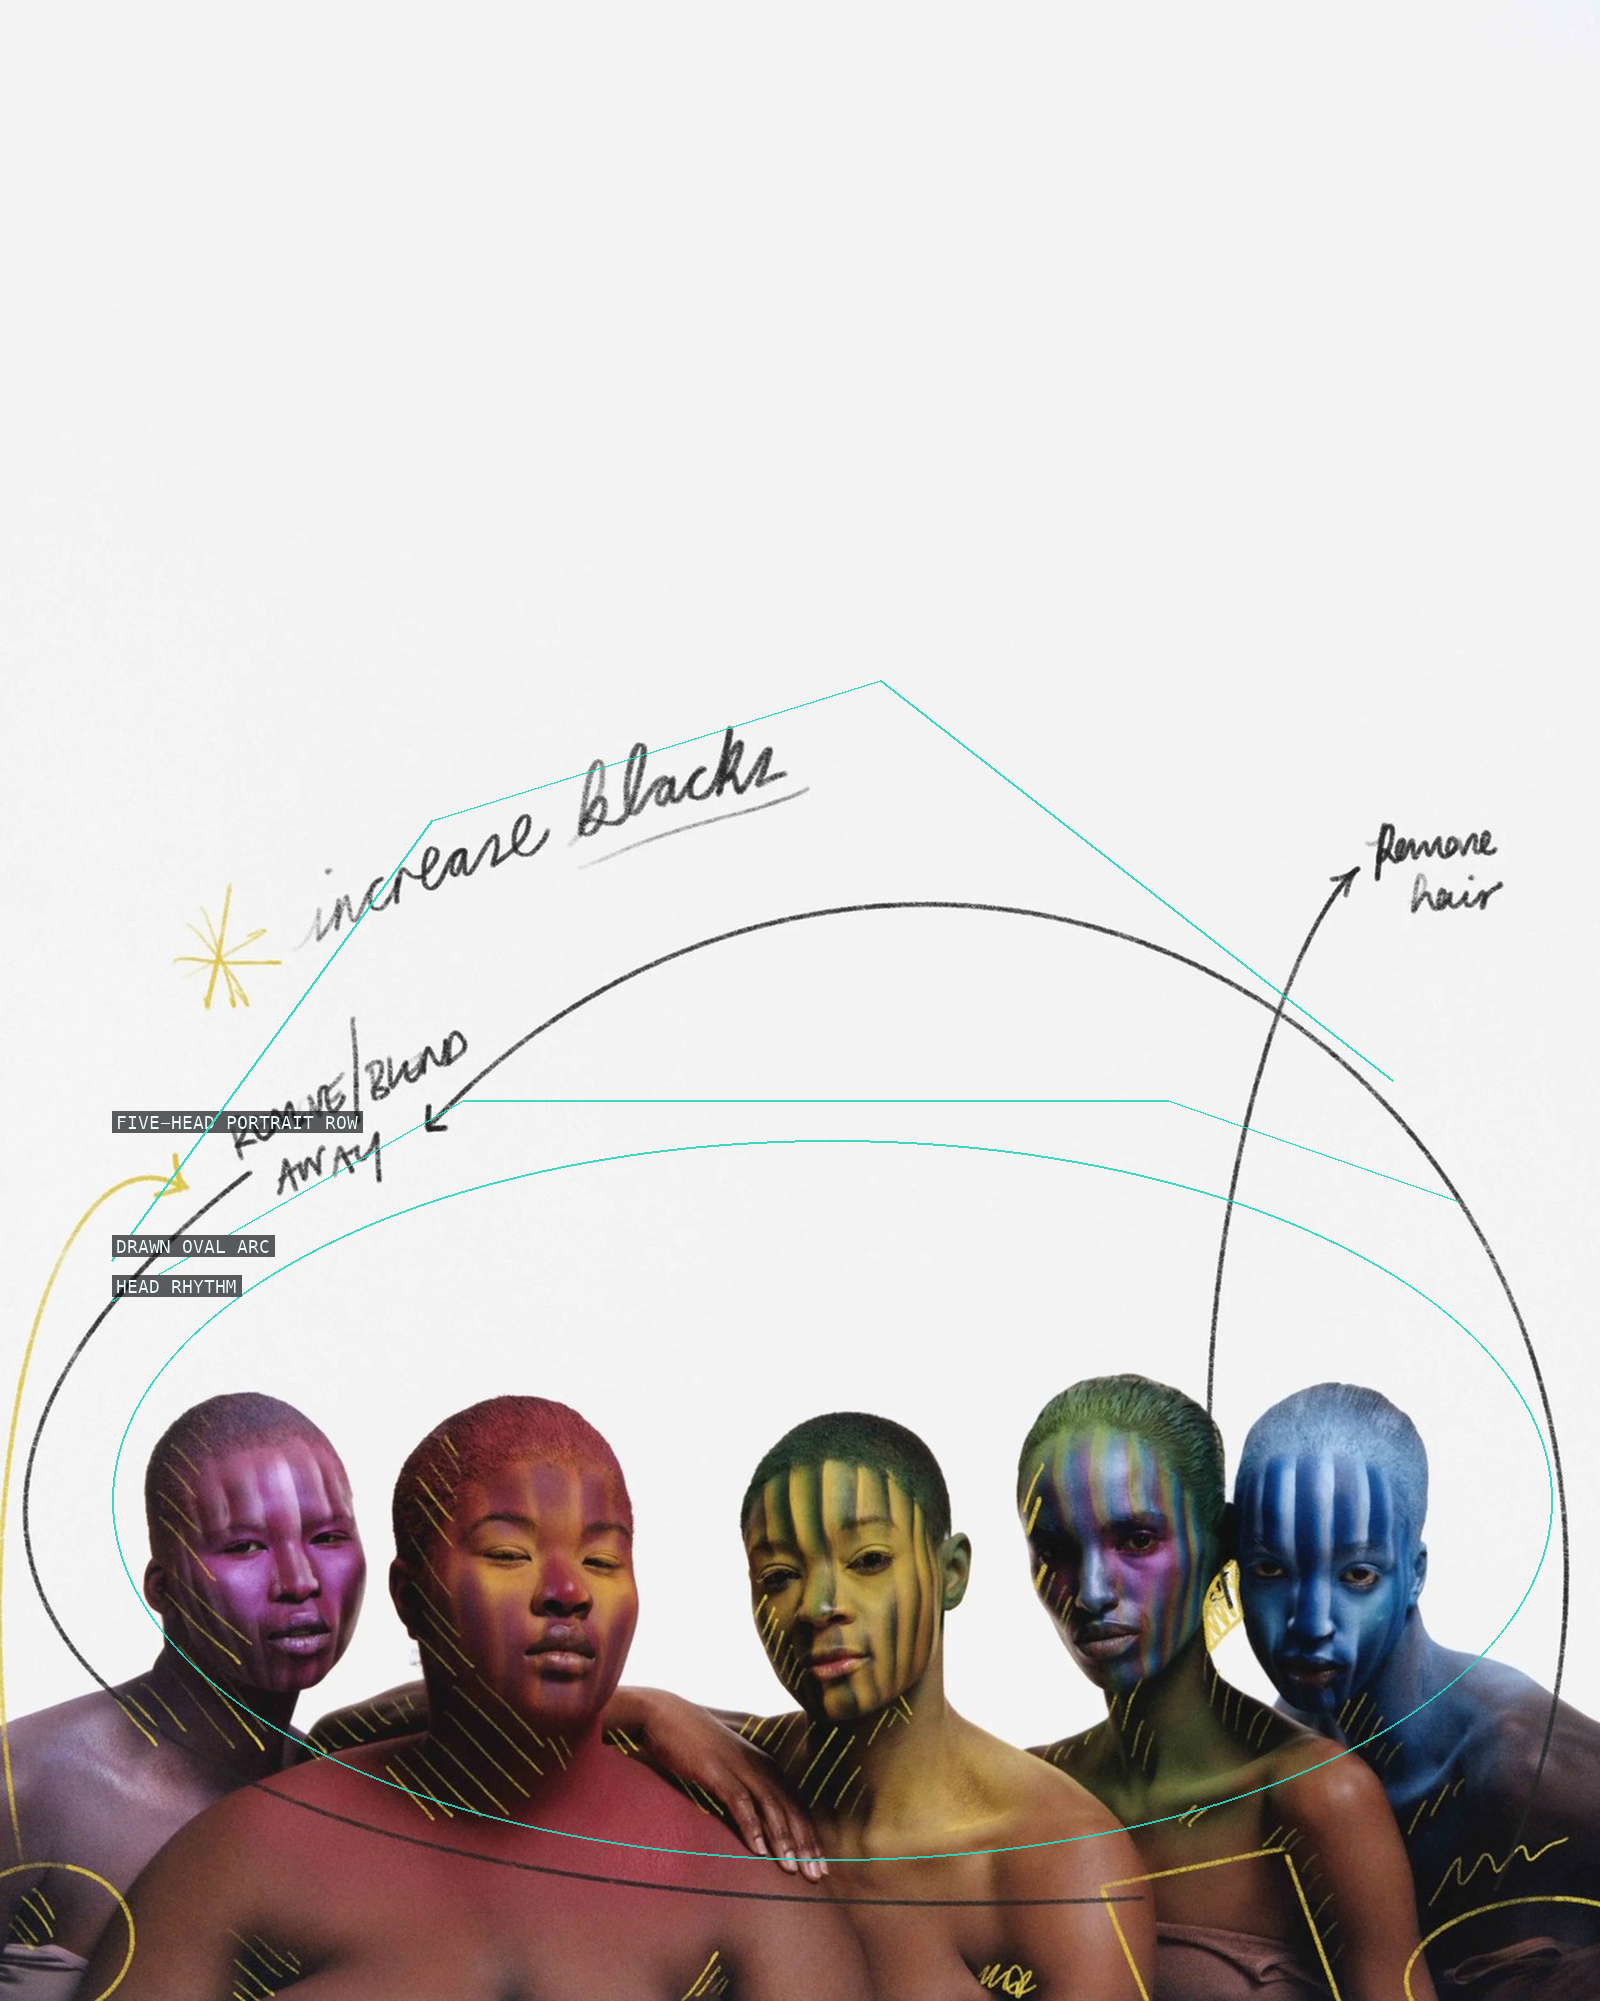
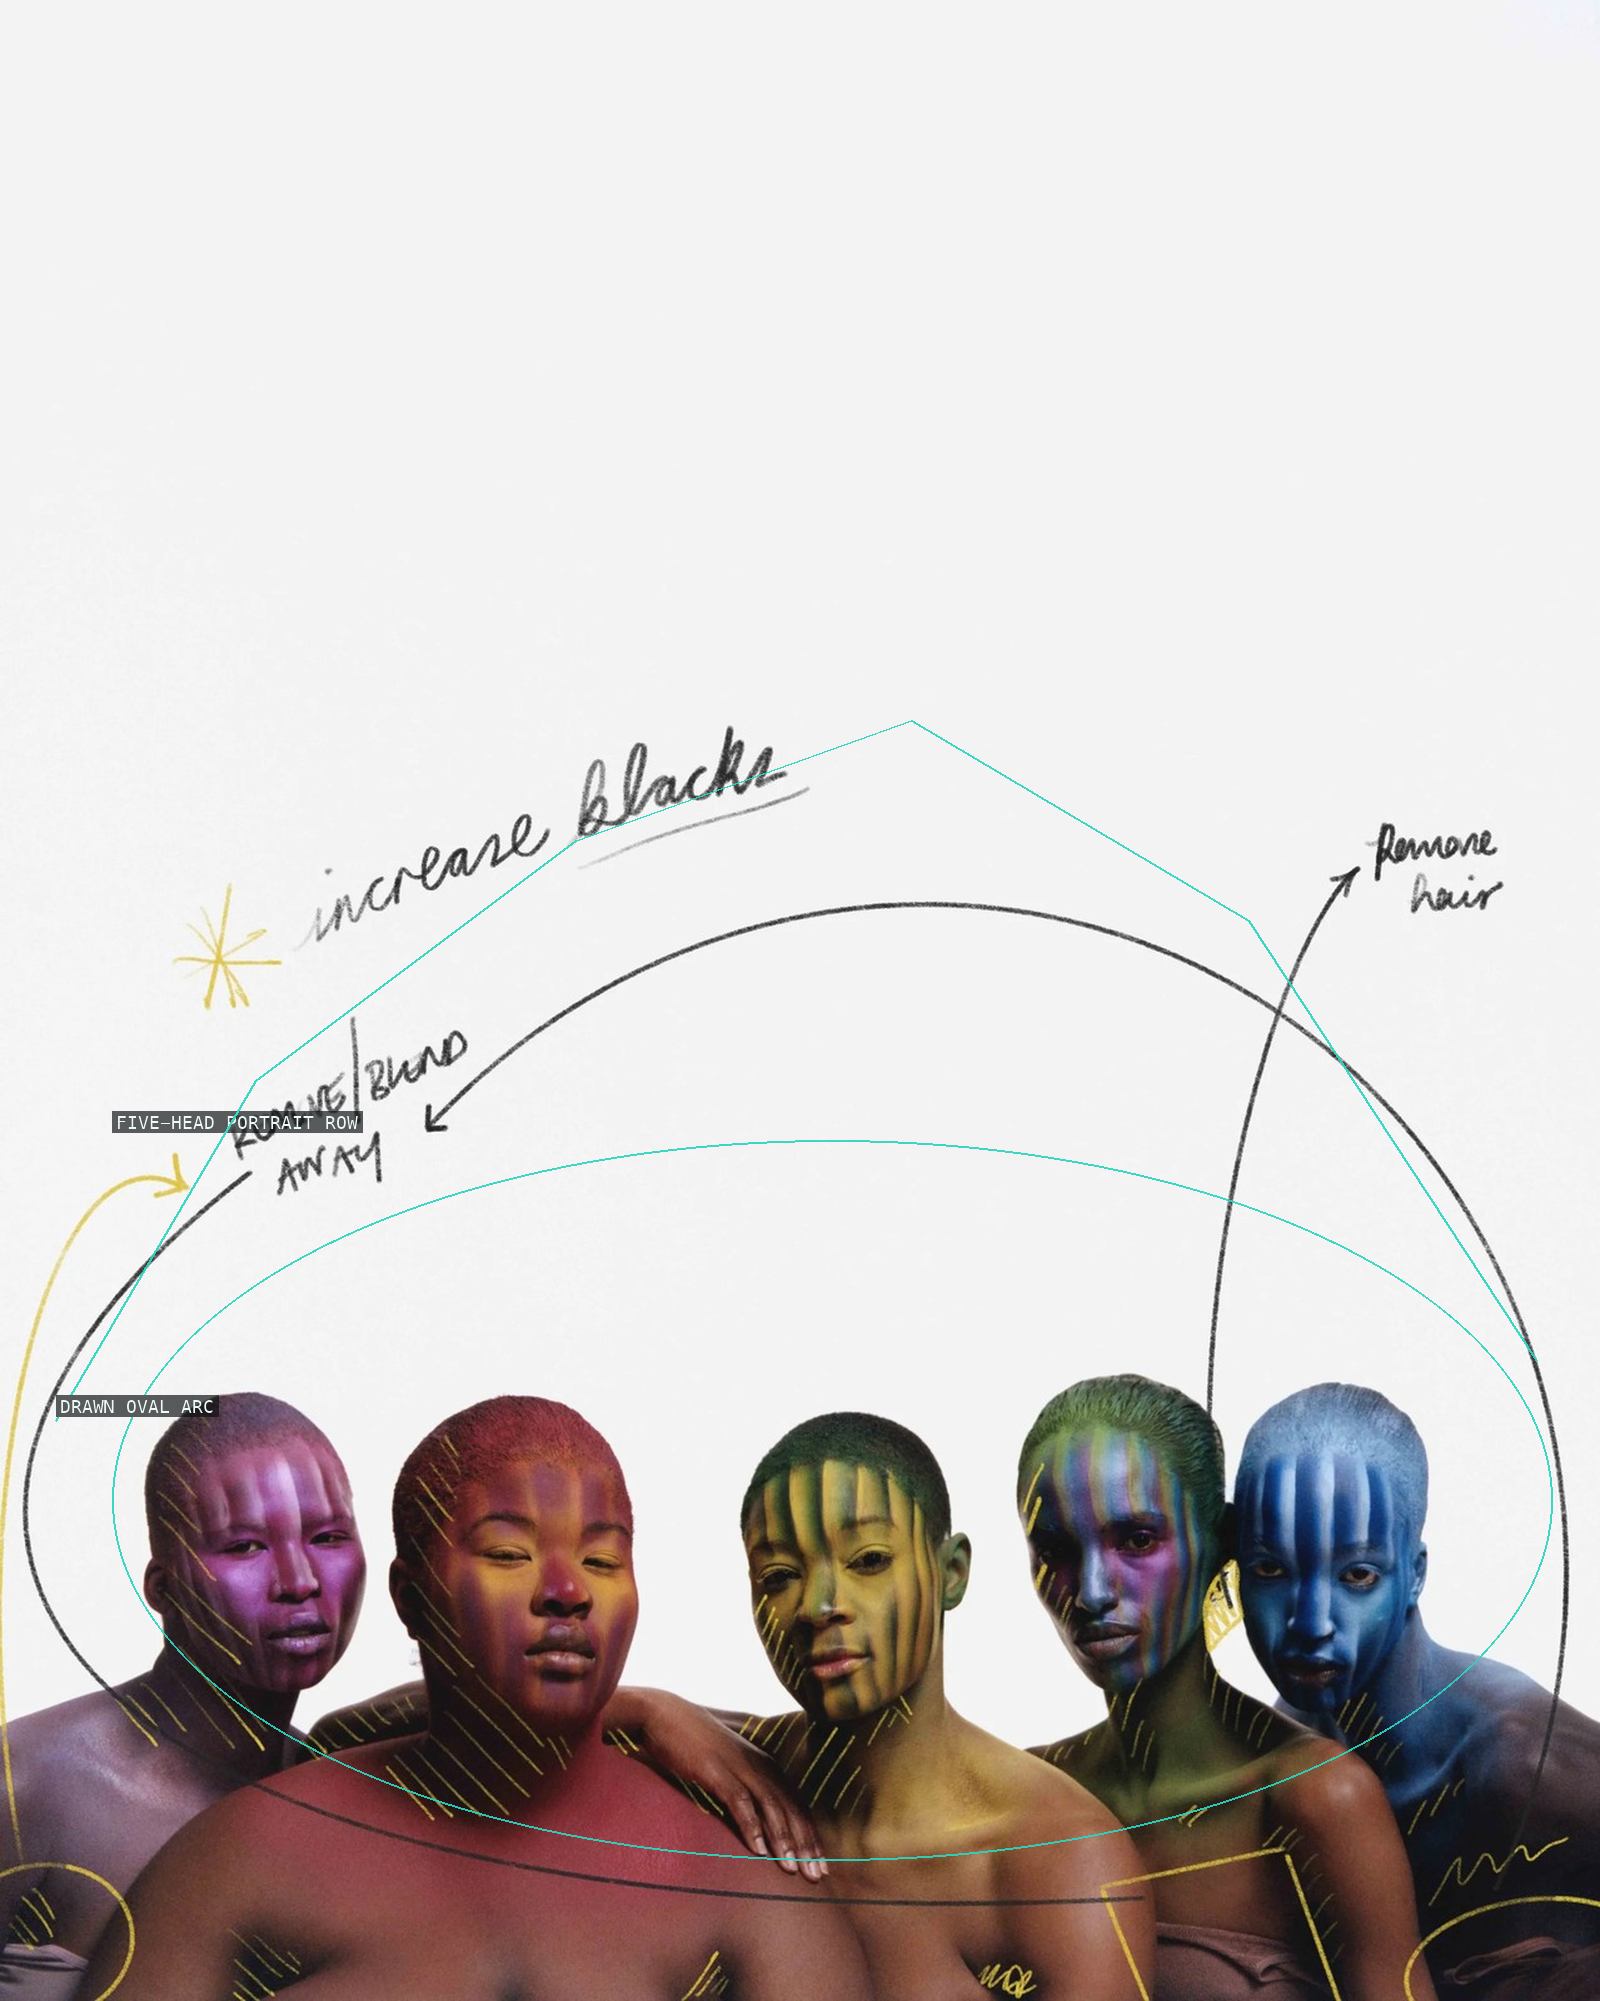
resolve critique: campbell-addy

Changed region(s): [[0.0625, 0.5887, 0.1875, 0.6507], [0.0312, 0.6817, 0.1562, 0.7126]]

diff --git a/content/campbell-addy/sources.md b/content/campbell-addy/sources.md
@@ -7,9 +7,9 @@ This 12-image set is drawn from the high-resolution display files published in A
 ## Shortlist
 
 ### 01 — *Colman Domingo for Time* (2025)
-- **Why it matters:** A long, front-facing portrait uses the clothing silhouette and dark surround to turn the figure into a centered vertical monument.
+- **Why it matters:** A reclining body, lifted legs, and held branch make crossing diagonals across a textured grayscale studio field.
 - **Source:** https://campbelladdy.com/selected-works (artist portfolio; public display file: https://images.squarespace-cdn.com/content/v1/58ea12fbd2b8576a9d65536a/1747840960535-ALWSFLF8X8KECX7M57BJ/250119_CA_Time_ColmanDomingo_S01_0019_v1a.jpg)
-- **Rights / fair-use assessment:** Campbell Addy; © Campbell Addy, with *Time* editorial context indicated by the filename. **Factor 1:** transformative criticism studies centered scale, silhouette, and tonal containment. **Factor 2:** a creative contemporary editorial portrait. **Factor 3:** the intact vertical frame is necessary to judge body, clothing, and surrounding negative space together. **Factor 4:** this credited 2500 × 3342px public portfolio copy links to the artist and does not replace the editorial publication or a licensed file.
+- **Rights / fair-use assessment:** Campbell Addy; © Campbell Addy, with *Time* editorial context indicated by the filename. **Factor 1:** transformative criticism studies the held branch, reclining pose, and tonal containment. **Factor 2:** a creative contemporary editorial portrait. **Factor 3:** the intact frame is necessary to judge body, branch, and surrounding negative space together. **Factor 4:** this credited 2500 × 3342px public portfolio copy links to the artist and does not replace the editorial publication or a licensed file.
 - **File:** `raw/campbell-addy/01-colman-domingo-time-2025.jpg` (2500 × 3342px)
 
 ### 02 — *Lewis Hamilton for GQ* (2023)
@@ -19,9 +19,9 @@ This 12-image set is drawn from the high-resolution display files published in A
 - **File:** `raw/campbell-addy/02-lewis-hamilton-gq-2023.jpg` (2500 × 3125px)
 
 ### 03 — *Vogue Spain, Hand Print* (undated; portfolio display current 2025)
-- **Why it matters:** A large printed hand becomes a graphic counterweight to the model, making touch and surface pattern the picture’s primary compositional event.
+- **Why it matters:** Four figures share a compact blue-backed group; staggered faces, hands, and shoulders lock into an interdependent portrait block.
 - **Source:** https://campbelladdy.com/selected-works (artist portfolio; public display file: https://images.squarespace-cdn.com/content/v1/58ea12fbd2b8576a9d65536a/1744881379138-MDLMPM591A21XTSN2XQM/CA_Vogue_Spain_Hand_Print+%284%29_V2.jpg)
-- **Rights / fair-use assessment:** Campbell Addy; © Campbell Addy, with *Vogue Spain* editorial context indicated by the filename. **Factor 1:** transformative criticism examines visual rhyme between the printed hand, live figure, and patterned surface. **Factor 2:** a creative fashion photograph. **Factor 3:** the complete vertical field is required to preserve the scale relationship. **Factor 4:** this credited 2447 × 3000px public portfolio display copy cannot replace the original commission or a licensed image.
+- **Rights / fair-use assessment:** Campbell Addy; © Campbell Addy, with *Vogue Spain* editorial context indicated by the filename. **Factor 1:** transformative criticism examines group geometry, varied face directions, and joining gestures. **Factor 2:** a creative fashion photograph. **Factor 3:** the complete vertical field is required to preserve the figures’ interlocking arrangement. **Factor 4:** this credited 2447 × 3000px public portfolio display copy cannot replace the original commission or a licensed image.
 - **File:** `raw/campbell-addy/03-vogue-spain-hand-print.jpg` (2447 × 3000px)
 
 ### 04 — *Vanishing Evenings for Vogue US* (2024)
@@ -43,27 +43,27 @@ This 12-image set is drawn from the high-resolution display files published in A
 - **File:** `raw/campbell-addy/06-liya-kebede-vogue-italia-2023.jpg` (1240 × 1550px)
 
 ### 07 — *I ♥ Campbell*, exhibition work 21 (2023)
-- **Why it matters:** The figure’s stylized presence is held against a saturated field, making costume, pose, and lighting operate as a single symbolic arrangement.
+- **Why it matters:** A high-key black-and-white portrait sets a dark frontal torso and asymmetric rising hair silhouette against a nearly white field.
 - **Source:** https://campbelladdy.com/selected-works (artist portfolio; public display file: https://images.squarespace-cdn.com/content/v1/58ea12fbd2b8576a9d65536a/1701168789423-ICFPZ776AG6VIRKVTC71/Campbell_Addy_Solo_Show_21_50%E2%80%9D+x+60.692%E2%80%9D_V1a.jpg; exhibition context: https://campbelladdy.com/s/I-3-Campbell-3.pdf)
-- **Rights / fair-use assessment:** Campbell Addy; © Campbell Addy. **Factor 1:** transformative composition teaching examines symbolic styling, central figure placement, and colored surround. **Factor 2:** a creative contemporary art photograph. **Factor 3:** the full vertical composition is necessary to connect pose, costume, and setting. **Factor 4:** the credited 2500 × 3126px web display copy is non-substitutive of an exhibition work, print, or licensed reproduction.
+- **Rights / fair-use assessment:** Campbell Addy; © Campbell Addy. **Factor 1:** transformative composition teaching examines high-key contrast, frontal placement, and the hair silhouette. **Factor 2:** a creative contemporary art photograph. **Factor 3:** the full vertical composition is necessary to connect torso, hair, and surrounding white field. **Factor 4:** the credited 2500 × 3126px web display copy is non-substitutive of an exhibition work, print, or licensed reproduction.
 - **File:** `raw/campbell-addy/07-i-heart-campbell-21-2023.jpg` (2500 × 3126px)
 
 ### 08 — *Bukayo Saka for Time Next Generation Leaders* (2023)
-- **Why it matters:** The portrait uses the cover’s tall, restrained field to isolate a seated figure and make the gaze a visual anchor rather than merely a likeness.
+- **Why it matters:** The cover crops a standing portrait at the torso, using the face, white jersey, red border, and blue typography as one designed address.
 - **Source:** https://campbelladdy.com/selected-works (artist portfolio; public display file: https://images.squarespace-cdn.com/content/v1/58ea12fbd2b8576a9d65536a/1701186411144-QU8QKLKWXVFKNQ8DW11B/TIME-NGL-Cover-Bukayo-Saka.jpg)
-- **Rights / fair-use assessment:** Campbell Addy; © Campbell Addy, with *Time* cover context indicated by the filename. **Factor 1:** transformative teaching analyzes seated pose, open field, and facial anchoring. **Factor 2:** a creative editorial portrait. **Factor 3:** the whole tall frame is needed to read the relation of seated figure to surrounding space. **Factor 4:** this credited 2363 × 3150px public portfolio copy links to the artist and cannot replace the magazine cover or a licensed image.
+- **Rights / fair-use assessment:** Campbell Addy; © Campbell Addy, with *Time* cover context indicated by the filename. **Factor 1:** transformative teaching analyzes facial anchoring, jersey texture, and cover typography. **Factor 2:** a creative editorial portrait. **Factor 3:** the whole cover frame is needed to read the relation of portrait to the red border and type. **Factor 4:** this credited 2363 × 3150px public portfolio copy links to the artist and cannot replace the magazine cover or a licensed image.
 - **File:** `raw/campbell-addy/08-bukayo-saka-time-2023.jpg` (2363 × 3150px)
 
 ### 09 — *I ♥ Campbell*, hand-print work (2023)
-- **Why it matters:** The panoramic format turns the handprint into a horizontal rhythm, allowing texture and repeated marks to carry as much weight as the figure.
+- **Why it matters:** A dim, lit cluster of bodies gathers at left and center before the panorama releases into a broad black field at right.
 - **Source:** https://campbelladdy.com/selected-works (artist portfolio; public display file: https://images.squarespace-cdn.com/content/v1/58ea12fbd2b8576a9d65536a/1701167838444-3SCSMVMUB29W6V1ZO6A5/CA_180STRAND_HANDPRINT1_v3.jpg; exhibition context: https://campbelladdy.com/s/I-3-Campbell-3.pdf)
-- **Rights / fair-use assessment:** Campbell Addy; © Campbell Addy. **Factor 1:** transformative criticism studies repeated mark-making, horizontal pacing, and figure-surface interaction. **Factor 2:** a creative contemporary art photograph. **Factor 3:** the whole panorama is necessary to see the rhythm of the prints across the frame. **Factor 4:** this credited 2500 × 1250px display file is web-sized and cannot replace an exhibition work, print, or licensed image.
+- **Rights / fair-use assessment:** Campbell Addy; © Campbell Addy. **Factor 1:** transformative criticism studies the clustered bodies, their low horizontal pacing, and the release into dark space. **Factor 2:** a creative contemporary art photograph. **Factor 3:** the whole panorama is necessary to see the relation of the lit cluster to the black field. **Factor 4:** this credited 2500 × 1250px display file is web-sized and cannot replace an exhibition work, print, or licensed image.
 - **File:** `raw/campbell-addy/09-i-heart-campbell-handprint-2023.jpg` (2500 × 1250px)
 
 ### 10 — *I ♥ Campbell*, exhibition work 06 (2023)
-- **Why it matters:** A tall, ceremonially posed figure uses frontal symmetry and tactile surface to make identity legible through both costume and spatial control.
+- **Why it matters:** Five painted faces form a low, uneven portrait row beneath a visible black oval and handwritten editorial marks.
 - **Source:** https://campbelladdy.com/selected-works (artist portfolio; public display file: https://images.squarespace-cdn.com/content/v1/58ea12fbd2b8576a9d65536a/1701168654921-MZPSG8EUTGFB2RQW3CJK/Campbell_Addy_Solo_Show_06_59_+x+71.617__V1a.jpg; exhibition context: https://campbelladdy.com/s/I-3-Campbell-3.pdf)
-- **Rights / fair-use assessment:** Campbell Addy; © Campbell Addy. **Factor 1:** transformative scholarship examines symmetry, surface, and ceremonial pose. **Factor 2:** a creative contemporary art photograph. **Factor 3:** the complete vertical frame is necessary to judge the figure’s symmetry and its surround. **Factor 4:** the credited 2500 × 3126px public portfolio derivative does not replace the exhibition work, print, or licensed reproduction.
+- **Rights / fair-use assessment:** Campbell Addy; © Campbell Addy. **Factor 1:** transformative scholarship examines the portrait row, painted facial patterning, and the drawn oval. **Factor 2:** a creative contemporary art photograph. **Factor 3:** the complete vertical frame is necessary to judge the faces’ relation to the oval and handwritten marks. **Factor 4:** the credited 2500 × 3126px public portfolio derivative does not replace the exhibition work, print, or licensed reproduction.
 - **File:** `raw/campbell-addy/10-i-heart-campbell-06-2023.jpg` (2500 × 3126px)
 
 ### 11 — *I ♥ Campbell*, exhibition work 04 (2023)
@@ -73,9 +73,9 @@ This 12-image set is drawn from the high-resolution display files published in A
 - **File:** `raw/campbell-addy/11-i-heart-campbell-04-2023.jpg` (2500 × 3126px)
 
 ### 12 — *Meghan for The Cut* (2018)
-- **Why it matters:** The cover-style portrait creates an emphatic central axis, using facial direction, dress, and a bounded vertical frame to make celebrity portraiture feel formally spare.
+- **Why it matters:** This close cover portrait uses a centered face, middle parting, green earrings, masthead, and lower type band to compress the frame around direct address.
 - **Source:** https://campbelladdy.com/selected-works (artist portfolio; public display file: https://images.squarespace-cdn.com/content/v1/58ea12fbd2b8576a9d65536a/1701186414276-RFTADXWJ7UMPA2B8VH3F/1822-COV-CUT-MEGHAN-4x5.jpg)
-- **Rights / fair-use assessment:** Campbell Addy; © Campbell Addy, with *The Cut* cover context indicated by the filename. **Factor 1:** transformative criticism studies centrality, wardrobe silhouette, and controlled cover framing. **Factor 2:** a creative editorial portrait. **Factor 3:** the intact vertical image is necessary to assess the cover’s full-body hierarchy. **Factor 4:** this credited 2400 × 3000px public portfolio display copy does not replace the editorial issue or a licensed reproduction.
+- **Rights / fair-use assessment:** Campbell Addy; © Campbell Addy, with *The Cut* cover context indicated by the filename. **Factor 1:** transformative criticism studies facial centrality, the middle parting, and controlled cover framing. **Factor 2:** a creative editorial portrait. **Factor 3:** the intact cover image is necessary to assess the relation of face to masthead and lower type band. **Factor 4:** this credited 2400 × 3000px public portfolio display copy does not replace the editorial issue or a licensed reproduction.
 - **File:** `raw/campbell-addy/12-meghan-the-cut-2018.jpg` (2400 × 3000px)
 
 ## Research context

diff --git a/content/campbell-addy/critique.md b/content/campbell-addy/critique.md
@@ -1,4 +1,4 @@
-verdict: revise
+verdict: resolved
 
 ## Critique round — 2026-07-27
 
@@ -20,3 +20,11 @@ verdict: revise
 - All twelve specs score 100/100 in the deterministic overlay scorer. The required issues above concern interpretive polylines, which the scorer bounds-checks but cannot semantically validate.
 - The chapter’s reported tonal values match the current analysis files within the stated tolerance; it also explicitly avoids inventing camera settings.
 - Every listed Squarespace source route returned a public image response during this review, and each fair-use entry supplies a four-factor rationale. The blocking source issue is the inaccurate per-image descriptive text, not access, credit, or rights-route documentation.
+
+## Resolution — 2026-07-27
+
+- Re-verified the full critique history: the 2026-07-27 round (the only prior round).
+- Removed the unsupported `RECLINING BODY SWEEP` from 09; the remaining ellipse and `LEFTWARD FIGURE CHAIN` stay on the lit cluster. Re-rendered proof and strict-scored 100/100.
+- Removed the unsupported `HEAD RHYTHM` from 10 and redrew `DRAWN OVAL ARC` on the visible black oval. Re-rendered proof and strict-scored 100/100; the chapter now remains accurate in saying that the overlay follows the visible oval.
+- Corrected the cited source descriptions and their directly related fair-use teaching rationales for 01, 03, 07, 08, 09, 10, and 12 to match the ingested frames.
+- Reconfirmed both chapter copies are byte-identical and ran `scripts/check.sh` successfully.
